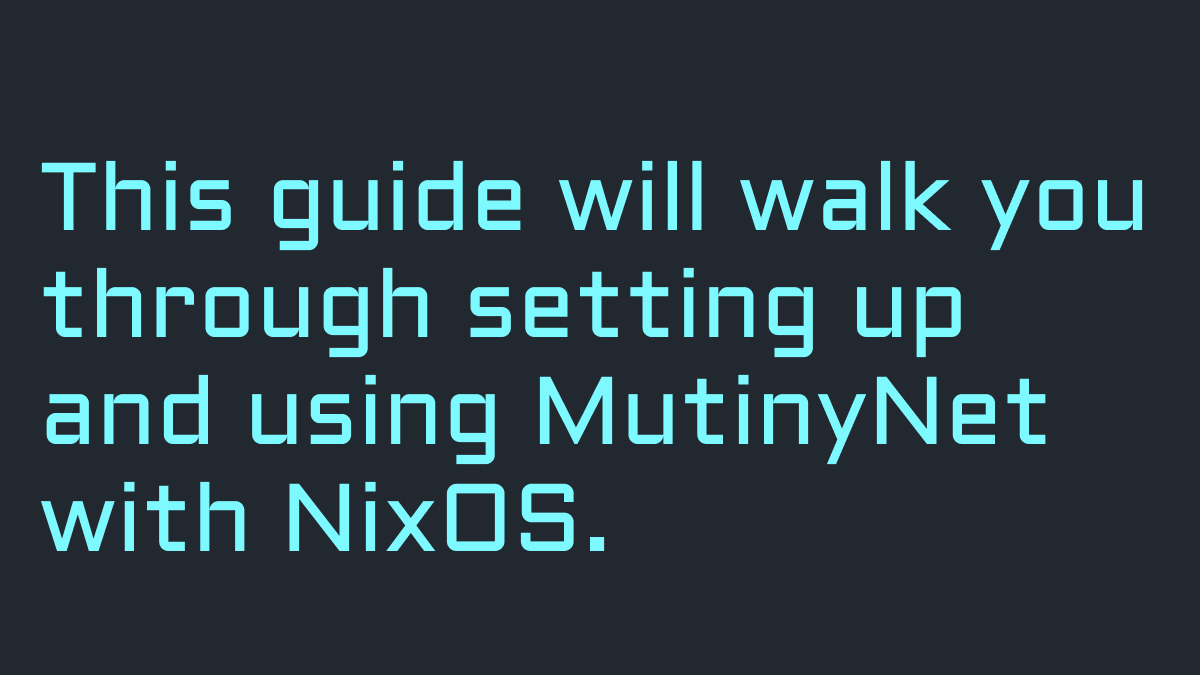
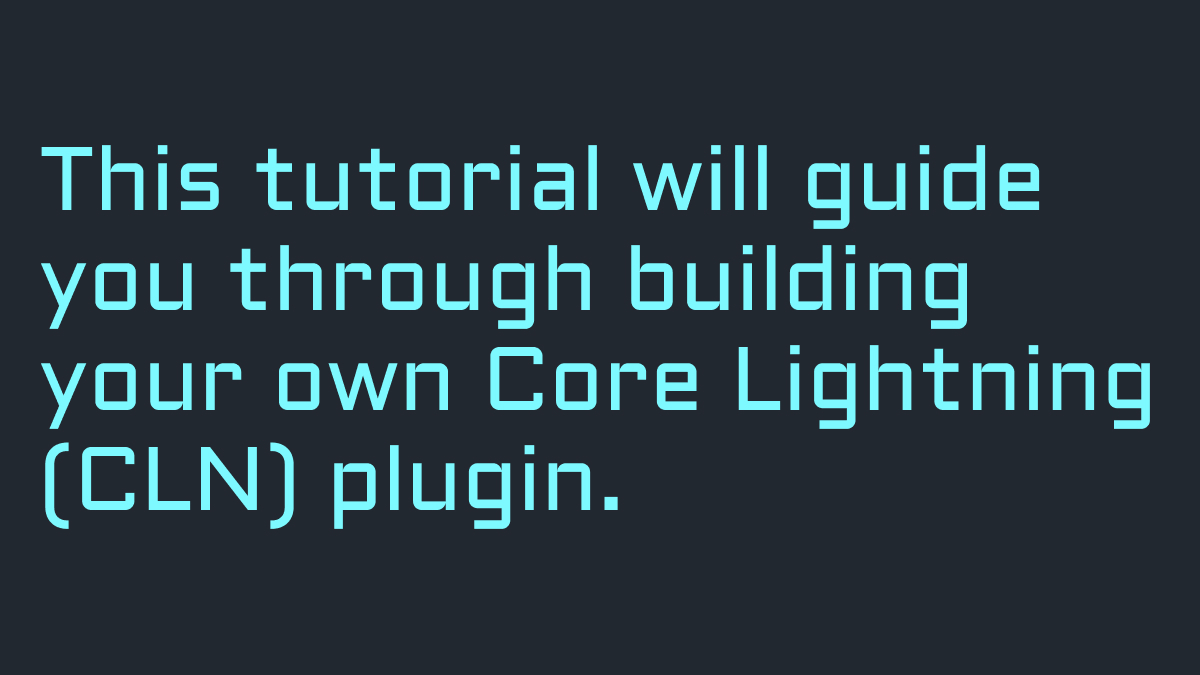
add config, social card and fix broken links.

Changed region(s): [[0.0308, 0.2178, 0.9558, 0.84]]

diff --git a/docusaurus.config.js b/docusaurus.config.js
@@ -10,12 +10,12 @@ import {themes as prismThemes} from 'prism-react-renderer';
 
 /** @type {import('@docusaurus/types').Config} */
 const config = {
-  title: 'NixOS MutinyNet Tutorial',
-  tagline: 'Welcome to the NixOS MutinyNet Tutorial. This guide will walk you through setting up and using MutinyNet with NixOS.',
+  title: 'CLN Plugin Tutorial',
+  tagline: 'This tutorial will guide you through building your own Core Lightning (CLN) plugin.',
   url: 'https://chrisguida.github.io',
-  baseUrl: '/nixos-mutinynet-tutorial/',
+  baseUrl: '/cln-plugin-tutorial/',
   organizationName: 'chrisguida', // Usually your GitHub org/user name.
-  projectName: 'nixos-mutinynet-tutorial', // Usually your repo name.
+  projectName: 'cln-plugin-tutorial', // Usually your repo name.
   onBrokenLinks: 'throw',
   onBrokenMarkdownLinks: 'warn',
 
@@ -54,7 +54,7 @@ const config = {
         title: 'Tiny Lightning Node Tutorial',
         items: [
           {
-            href: 'https://github.com/chrisguida/nixos-mutinynet-tutorial/',
+            href: 'https://github.com/chrisguida/cln-plugin-tutorial/',
             label: 'GitHub',
             position: 'right',
           },
@@ -90,12 +90,12 @@ const config = {
             items: [
               {
                 label: 'GitHub',
-                href: 'https://github.com/chrisguida/nixos-mutinynet-tutorial/',
+                href: 'https://github.com/chrisguida/cln-plugin-tutorial/',
               },
             ],
           },
         ],
-        copyright: `Copyright © ${new Date().getFullYear()} NixOS MutinyNet Tutorial. Built with Docusaurus.`,
+        copyright: `Copyright © ${new Date().getFullYear()} CLN Plugin Tutorial. Built with Docusaurus.`,
       },
       prism: {
         theme: prismThemes.github,

diff --git a/docs/python-tutorial/life-cycle.md b/docs/python-tutorial/life-cycle.md
@@ -108,7 +108,7 @@ The plugin's response will look something like this:
 Now your plugin can do stuff!
 
 # Exercise: Build a bare minimum plugin that conforms to the above requirements
-If you click on [`python-plugin/helloworld.py`](/home/runner/$REPL_SLUG/python-plugin/helloworld.py) in the file tree to your left, you will see a basic CLN plugin written in Python. It doesn't do much, yet. It pretty much just runs. We'll add more to it as we work through this tutorial.
+If you click on `python-plugin/helloworld.py` in the file tree to your left, you will see a basic CLN plugin written in Python. It doesn't do much, yet. It pretty much just runs. We'll add more to it as we work through this tutorial.
 
 Here it is:
 ```py
